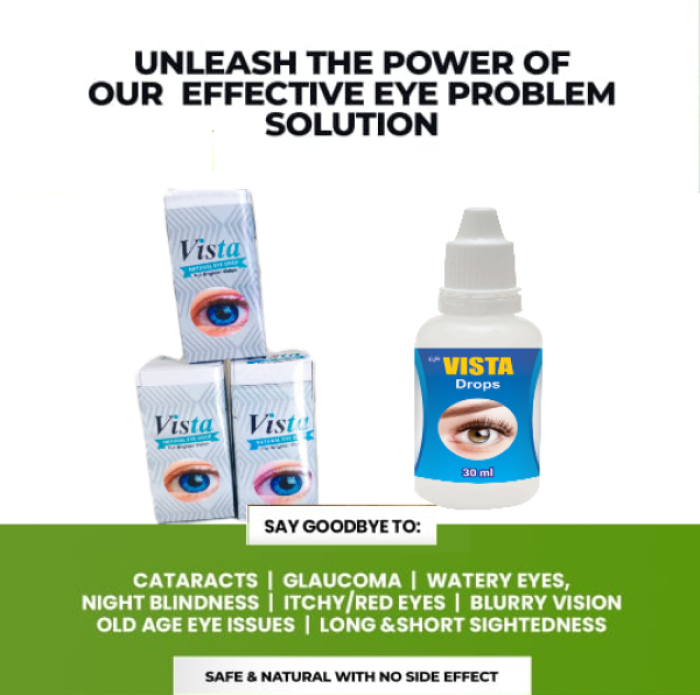
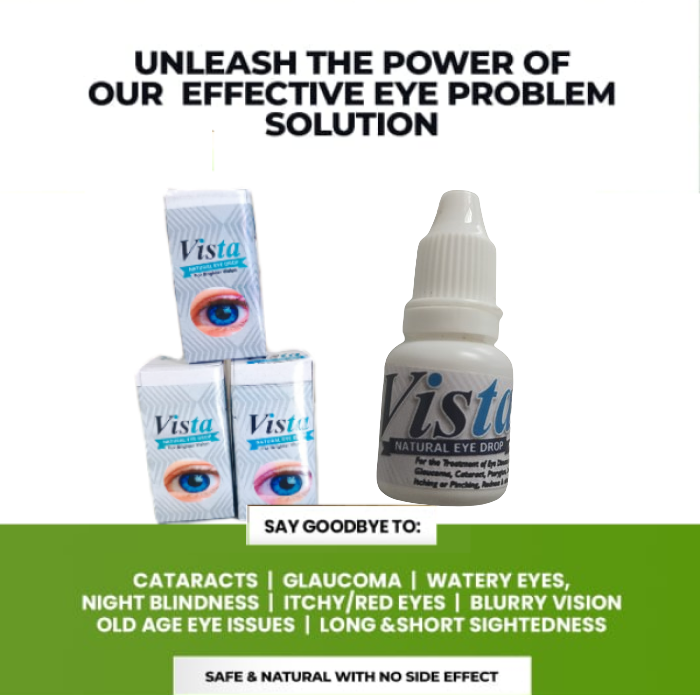
Change Picture Of Eye Drop Open Bottle

Changed region(s): [[0.54, 0.2719, 0.78, 0.7554]]

diff --git a/eye-care/index.html b/eye-care/index.html
@@ -133,7 +133,7 @@
 					SAY YES TO THIS
 				</h2>
 
-				<div class="img-cont">
+				<div class="img-cont text-center">
 					<img src="assets/vista-alt.png" alt="">
 				</div>
 
